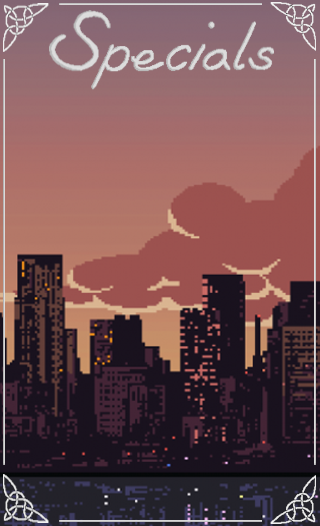
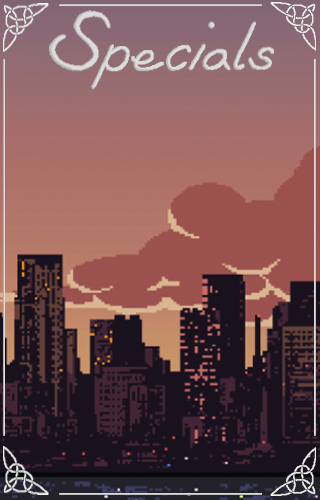
changed bgs, added animated front

diff --git a/style.css b/style.css
@@ -9,6 +9,24 @@ body {
     background-color: #636363;
 }
 
+#f1 {
+    position: relative;
+    width: 100%;
+    height: 100%;
+    overflow: hidden;
+}
+
+#bg-video {
+    position: absolute;
+    top: 0;
+    left: 0;
+    width: 100%;
+    height: 100%;
+    object-fit: cover;
+    z-index: -1;
+    /* Ensure the video is behind other content */
+}
+
 /* FONT IMPORT*/
 @font-face {
     font-family: pixelfont;
@@ -66,6 +84,8 @@ body {
 .back-content {
     transform: rotateY(180deg);
 }
+
+
 
 /* paper flipped */
 .flipped .front,

diff --git a/index.html b/index.html
@@ -24,7 +24,8 @@
         <div id="p1" class="paper">
             <div class="front">
                 <div id="f1" class="front-content">
-                    <img src="pictures/backgrounds/background.png" alt="Background">
+                    <video id="bg-video" src="pictures/backgrounds/bg_menu.mp4" type="video/mp4" loop muted
+                        autoplay></video>
                 </div>
             </div>
             <div class="back">
